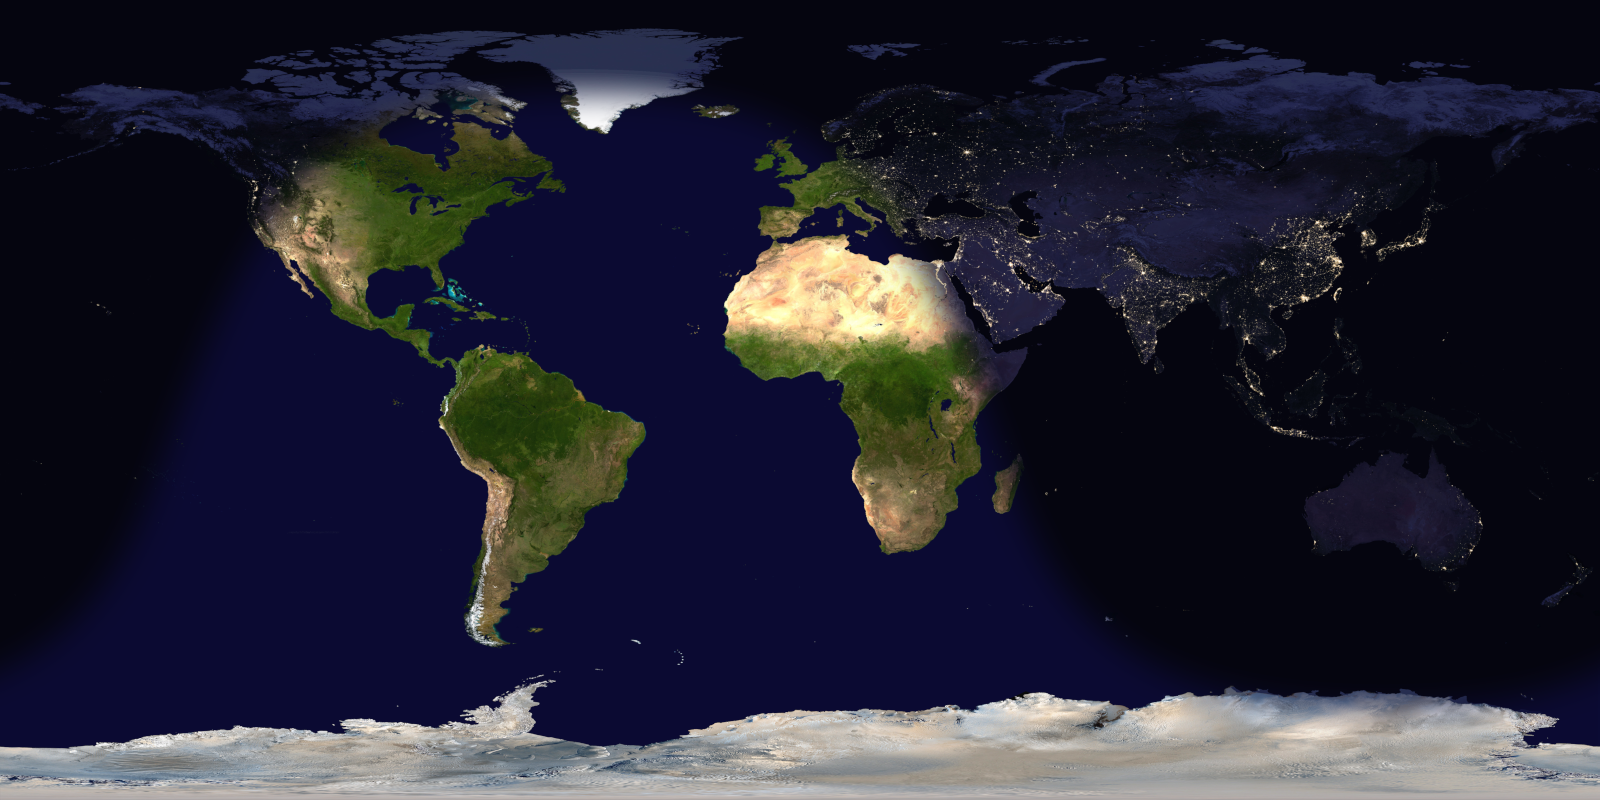
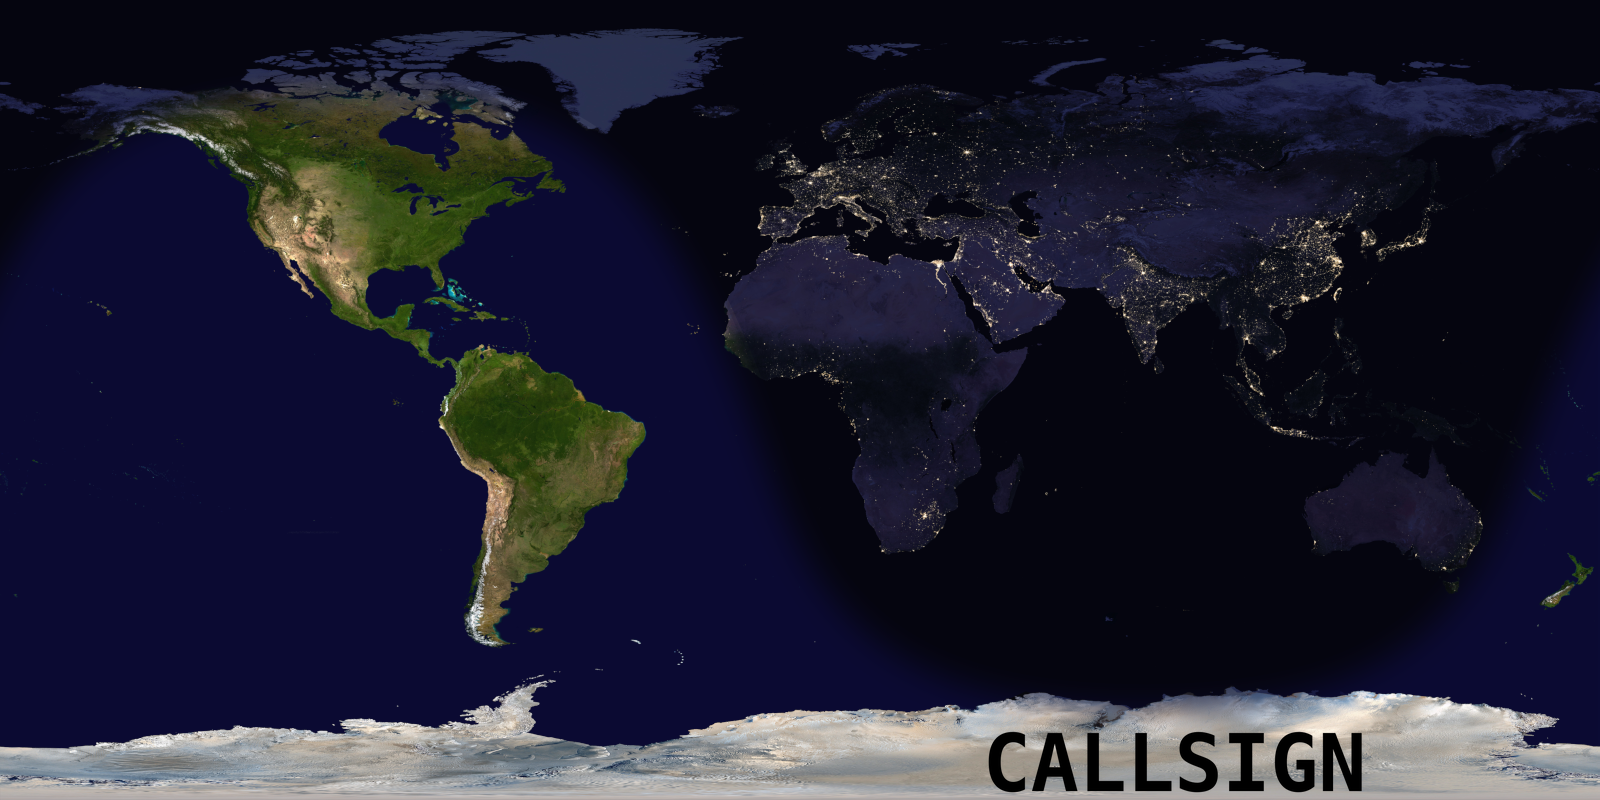
Added callsign support updated function docs

Changed region(s): [[0.3125, 0.0938, 1.0, 1.0], [0.0, 0.0938, 0.2812, 0.8438]]

diff --git a/render.py b/render.py
@@ -6,7 +6,7 @@ import subprocess
 
 SET_TO_WALLPAPER = False  # Only works with GNOME
 
-def render_greyline_composite(day_image, night_image, mask_image, render_filename, hour=None):
+def render_greyline_composite(day_image, night_image, mask_image, render_filename, hour=None, callsign_image=None, callsign_dim=(0,0)):
     """
     Create a new composite image based off time of day.
 
@@ -15,7 +15,10 @@ def render_greyline_composite(day_image, night_image, mask_image, render_filenam
     mask_image (str): filepath to mask image
     render_filename (str): filepath to save output
 
-    hour (float): hour of the day (can be left blank for UTC)
+    hour (float): hour of the day (can be left blank for UTC)   
+
+    callsign_image (str): optional string of callsign filename
+    callsign_dim (int tuple of length 3): (scale, x, y) location and scale of callsign
     """
 
     if hour is None: 
@@ -30,6 +33,14 @@ def render_greyline_composite(day_image, night_image, mask_image, render_filenam
     shift = -(mask_width/24)*(hour+12)
     mask = ImageChops.offset(mask, int(shift), 0)
     im = Image.composite(day, night, mask)
+
+    if callsign_image:
+        callsign = Image.open(get_path(callsign_image))
+        call_x = int(callsign.size[0]/callsign_dim[0])
+        call_y = int(callsign.size[1]/callsign_dim[0])
+
+        callsign = callsign.resize((call_x, call_y), Image.LANCZOS)
+        im.paste(callsign, (callsign_dim[1], callsign_dim[2]), callsign)
 
     im.save(get_path(render_filename))
 
@@ -50,5 +61,5 @@ def set_wallpaper(filename):
     subprocess.Popen(args)
 
 if __name__ == "__main__":
-    render_greyline_composite("day_low.png", "night_low.png", "mask_low.png", "render.png")
+    render_greyline_composite("day_low.png", "night_low.png", "mask_low.png", "render.png", None, "callsign.png", (2.5, 970, 660))
     if SET_TO_WALLPAPER: set_wallpaper("render.png")
